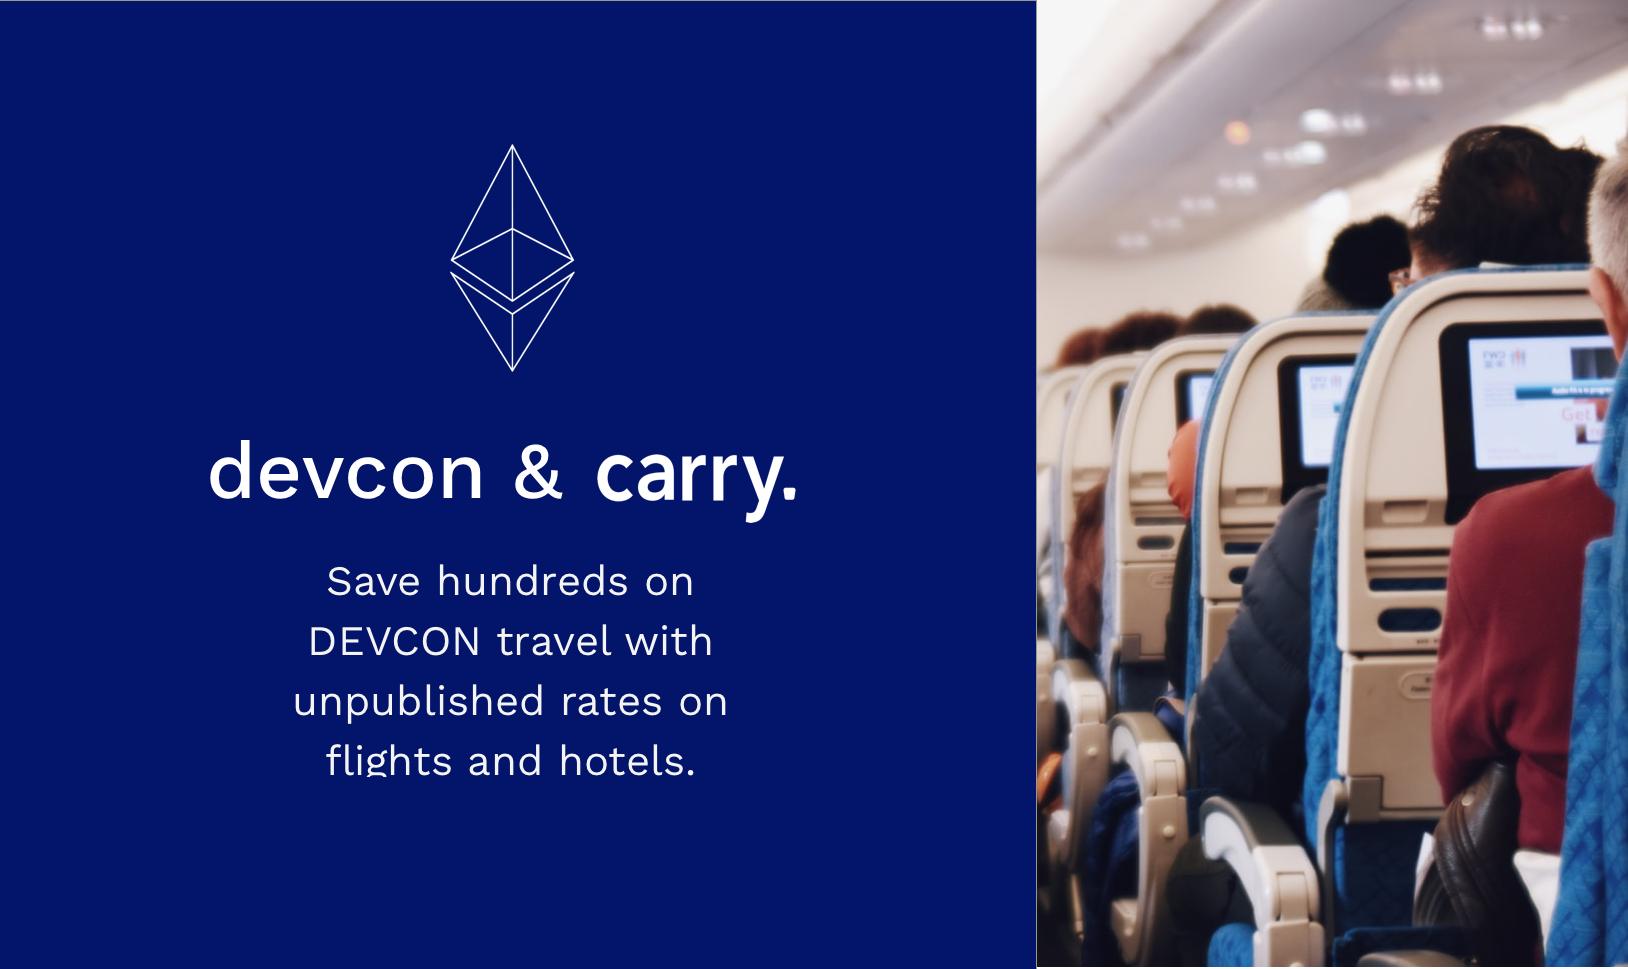
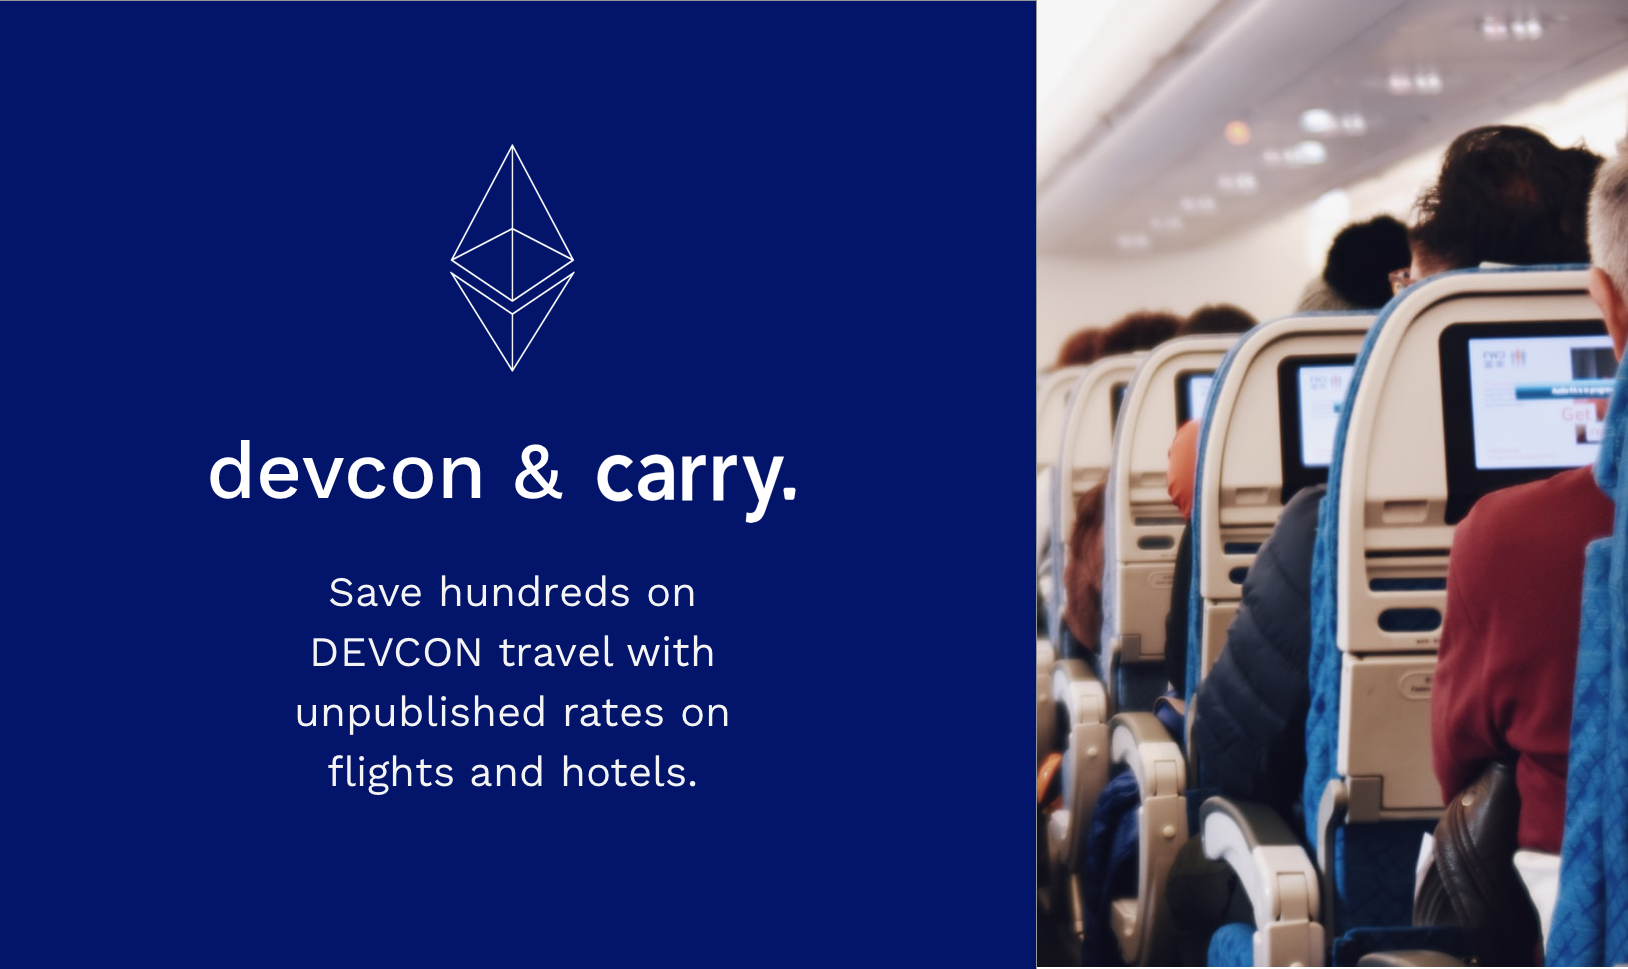
hi

Changed region(s): [[0.1843, 0.5882, 0.4607, 0.8359]]

diff --git a/devcon/index.html b/devcon/index.html
@@ -31,20 +31,21 @@
 <div class="container-fluid hello">
 
 <div class="row one">
-  <div class="col-lg-4 col-md-6 col-sm-12 left my-auto" style="padding-left:3%">
-    <img src="../images/devoncarry.png" class="devimage"></a>
-  </div>
-  <div class="col-lg-8 col-md-6 col-sm-12 my-auto first" style="padding-left:10%; padding-top: 10%; padding-bottom:1%; padding-right:10%; text-align:center">
 
-  <p> Hi, we're <a href="https://carry.travel">Carry</a>, your personal assistant for travel.</p>
-  <p>We're running a special promotion for DevCon: we'll organize your conference travel for free. We save you time, ensure everything goes smoothly, and save you money through exclusive flight and hotel.</p>
-  <p> <i>Example message:</i> <b>"Hey Carry, I'm flying from Berlin to Osaka from October 7 - 12" </b> </p>
+    <div class="col-lg-12 col-md-12 col-sm-12 left py-auto" style="margin-top:0px;padding-left:10%;padding-right:10%;">
+      <img class="devimage" src="../images/devconcarry.png"></a>
+       <h3 style="padding-top:30px;padding-bottom:15px;">Hi, we're Carry, your personal assistant for travel.</h3>
+       <p></p>
+      <p>We're running a special promotion for DevCon: we'll organize your conference travel for free. We save you time, ensure everything goes smoothly, and save you money through exclusive flight and hotel.</p>
+      <p> <i>Example message:</i> <b>"Hey Carry, I'm flying from Berlin to Osaka from October 7 - 12" </b> </p>
 
 
-<p> <a href="http://carry.travel/devcon-install"><img alt=""Add to Slack"" height="40" width="139" src="https://platform.slack-edge.com/img/add_to_slack.png" srcset="https://platform.slack-edge.com/img/add_to_slack.png 1x, https://platform.slack-edge.com/img/add_to_slack@2x.png 2x" /></a>
-<button class="text" onclick="window.location.href='sms:4159672770'"> Text <a class="blue3" href="sms:4159672770">(415) 967-2770</a> </button> </p>
+    <p> <a href="http://carry.travel/devcon-install"><img alt=""Add to Slack"" width="200" src="https://platform.slack-edge.com/img/add_to_slack@2x.png" srcset="https://platform.slack-edge.com/img/add_to_slack.png 1x, https://platform.slack-edge.com/img/add_to_slack@2x.png 2x" /></a>
+    <button class="text" onclick="window.location.href='sms:4159672770'"> Text <a class="blue3" href="sms:4159672770">(415) 967-2770</a> </button> </p>
 
-  </div>
+
+    </div>
+
 </div>
 
 

diff --git a/devcon.css b/devcon.css
@@ -3,25 +3,43 @@
 
 
 
-@media (max-width: 768px) {
+@media (max-width: 992px) {
 .devimage {
-  width:86%;
-  padding-top:15%;
+  width:80%;
   margin-bottom:8%;
 }
-}
-
-@media (min-width: 768px) {
-.devimage {
-  width:76%;
+.left {
+  padding-top:22%;
+  background-color: #4A60C8;
+  width:100%;
+  text-align: center;
+  color:white;
 }
 }
 
 @media (min-width: 992px) {
 .devimage {
-  width:78%;
+  width:50%;
+}
+
+.left {
+  background: #3494E6;  /* fallback for old browsers */
+  background: -webkit-linear-gradient(to right, #EC6EAD, #3494E6);  /* Chrome 10-25, Safari 5.1-6 */
+  background: linear-gradient(to right, #EC6EAD, #3494E6); /* W3C, IE 10+/ Edge, Firefox 16+, Chrome 26+, Opera 12+, Safari 7+ */
+
+  width:100%;
+  text-align: center;
+  padding-top:8%;
+  padding-bottom:10%;
+  color:white;
+}
+
+.first {
+  padding-top:16%;
+  padding-bottom:16%;
 }
 }
+
 
 .hello {
   height: 100vh;
@@ -31,15 +49,10 @@
   color: #4A60C8;
 }
 
-.left {
-  background-color: #4A60C8;
-  height: 100%;
-  width:100%;
-}
-
 .text {
-  height: 40px;
-  background-color:transparent;
+  width:200px;
+  height:55px;
+  background-color:white;
   border-radius:7px;
   border-style:solid;
   border-width:1px;
